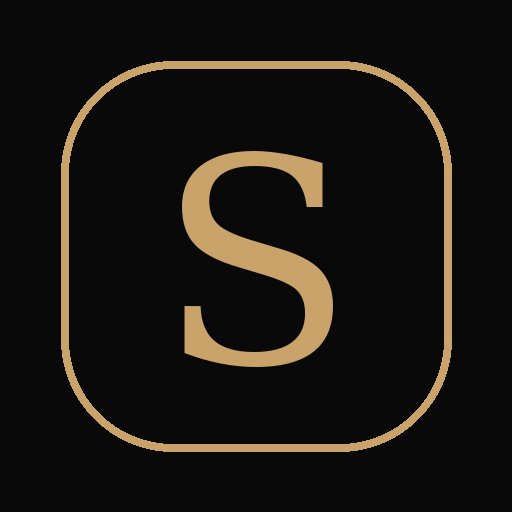
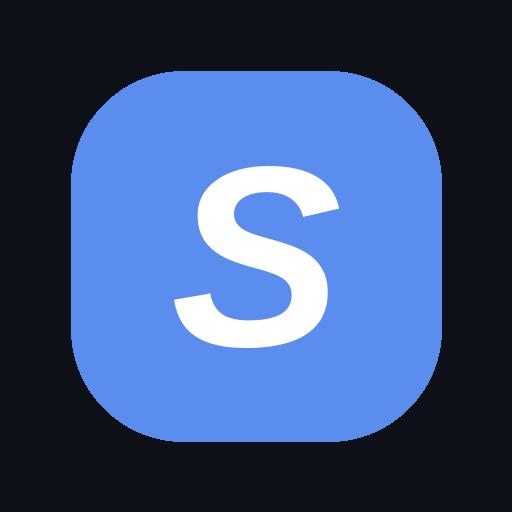
Nueva estética: más limpia y moderna (azul, tipografía sans, categorías en píldoras, baldosas de color)
Claude-Session: https://claude.ai/code/session_01BUZpBNmMGrT1X5f74E6yXL

diff --git a/index.html b/index.html
@@ -3,7 +3,7 @@
 <head>
 <meta charset="utf-8">
 <meta name="viewport" content="width=device-width,initial-scale=1,maximum-scale=1,user-scalable=no,viewport-fit=cover">
-<meta name="theme-color" content="#09090a">
+<meta name="theme-color" content="#0d1017">
 <meta name="apple-mobile-web-app-capable" content="yes">
 <meta name="mobile-web-app-capable" content="yes">
 <link rel="manifest" href="manifest.json">
@@ -11,11 +11,11 @@
 <meta name="apple-mobile-web-app-title" content="Solera">
 <title>Solera TPV</title>
 <style>
-:root{--bg:#09090a;--s1:#121110;--s2:#181716;--s3:#211f1d;--line:#262321;--line2:#37332f;--tx:#f3eee6;--mut:#8f8981;--mut2:#615c56;
---gold:#c9a36a;--ok:#3fbf8b;--okd:#03150e;--amb:#f2a33a;--red:#ff5c5c;--serif:"Iowan Old Style","Palatino Linotype",Palatino,"Book Antiqua",Georgia,"Noto Serif",serif;
+:root{--bg:#0d1017;--s1:#151a24;--s2:#1b2230;--s3:#242d3f;--line:#222a3a;--line2:#303b52;--tx:#f6f8fc;--mut:#97a3b8;--mut2:#5d6a82;
+--gold:#5b8def;--ok:#2fd18b;--okd:#032014;--amb:#ffb43a;--red:#ff6b6b;--serif:"Inter","SF Pro Display",system-ui,-apple-system,"Segoe UI",Roboto,Helvetica,Arial,sans-serif;
 --ease:cubic-bezier(.2,.8,.2,1)}
 *{box-sizing:border-box;-webkit-tap-highlight-color:transparent}
-html{background-color:var(--bg);background-image:radial-gradient(900px 420px at 50% -8%,rgba(201,163,106,.09),transparent 70%);background-attachment:fixed}
+html{background-color:var(--bg)}
 html,body{margin:0;height:100%;color:var(--tx);font-family:"SF Pro Display","Inter",system-ui,-apple-system,"Segoe UI",Roboto,Helvetica,Arial,sans-serif;overscroll-behavior:none;-webkit-font-smoothing:antialiased;font-feature-settings:"tnum" 1,"cv11" 1}
 body{background:transparent;-webkit-user-select:none;user-select:none;-webkit-touch-callout:none}
 button{font:inherit;color:inherit;border:0;background:none;touch-action:manipulation;cursor:pointer;padding:0}
@@ -24,7 +24,7 @@ svg{display:block}
 h2{margin:0 0 12px;font-size:21px;font-weight:650;letter-spacing:-.01em}
 h3{margin:20px 0 8px;font-size:11px;color:var(--mut);letter-spacing:.16em;font-weight:600}
 .hint{color:var(--mut);font-size:14px;line-height:1.5;margin:6px 0 14px}
-.btn{min-height:50px;padding:0 18px;border-radius:13px;background:var(--s3);font-weight:600;font-size:15px;border:1px solid var(--line2);transition:transform .12s var(--ease),background .15s}
+.btn{min-height:52px;padding:0 20px;border-radius:16px;background:var(--s3);font-weight:600;font-size:15px;border:1px solid var(--line2);transition:transform .12s var(--ease),background .15s}
 .btn:active{transform:scale(.97)}
 .btn.pri{background:var(--ok);color:var(--okd);border-color:var(--ok)}
 .btn.red{background:rgba(255,92,92,.1);color:#ff8f8f;border-color:rgba(255,92,92,.35)}
@@ -33,21 +33,21 @@ h3{margin:20px 0 8px;font-size:11px;color:var(--mut);letter-spacing:.16em;font-w
 
 /* marca */
 .brand{display:flex;align-items:baseline;gap:12px}
-.brand b{font-family:var(--serif);font-weight:500;letter-spacing:.01em;font-size:25px;color:var(--tx);line-height:1}
+.brand b{font-family:var(--serif);font-weight:800;letter-spacing:-.02em;font-size:25px;color:var(--tx);line-height:1}
 .brand small{font-size:10px;letter-spacing:.24em;font-weight:600;color:var(--gold)}
 
 /* selector de modo */
 .picker{min-height:100%;display:flex;flex-direction:column;justify-content:center;gap:14px;padding:28px;max-width:560px;margin:0 auto}
-.picker .logo{font-family:var(--serif);font-size:64px;font-weight:500;letter-spacing:-.01em;line-height:1;margin:0 0 10px}
+.picker .logo{font-family:var(--serif);font-size:60px;font-weight:800;letter-spacing:-.04em;line-height:1;margin:0 0 10px}
 .picker .by{font-size:11.5px;letter-spacing:.26em;color:var(--gold);font-weight:600;padding-bottom:22px;margin-bottom:22px;border-bottom:1px solid var(--line2)}
-.pbtn{display:flex;align-items:center;gap:18px;padding:22px 22px;border-radius:20px;background:var(--s1);border:1px solid var(--line2);text-align:left;transition:transform .15s var(--ease),border-color .2s}
+.pbtn{display:flex;align-items:center;gap:18px;padding:22px 22px;border-radius:24px;background:var(--s1);border:1px solid var(--line2);text-align:left;transition:transform .15s var(--ease),border-color .2s}
 .pbtn:active{transform:scale(.98);border-color:var(--gold)}
 .pbtn .pi{width:56px;height:56px;border-radius:16px;background:var(--s3);display:grid;place-items:center;color:var(--gold);flex:0 0 auto}
 .pbtn strong{display:block;font-size:20px;letter-spacing:.14em;font-weight:650}
 .pbtn small{display:block;color:var(--mut);font-size:14px;margin-top:3px;font-weight:400}
 
 /* barra */
-.top{position:sticky;top:0;z-index:5;background:rgba(9,9,10,.92);backdrop-filter:blur(14px);-webkit-backdrop-filter:blur(14px);padding:calc(env(safe-area-inset-top) + 8px) 12px 6px;border-bottom:1px solid var(--line)}
+.top{position:sticky;top:0;z-index:5;background:rgba(13,16,23,.92);backdrop-filter:blur(14px);-webkit-backdrop-filter:blur(14px);padding:calc(env(safe-area-inset-top) + 8px) 12px 6px;border-bottom:1px solid var(--line)}
 .row1{display:flex;align-items:center;gap:10px}
 .pill{margin-left:auto;display:flex;align-items:center;gap:8px;padding:9px 14px;border-radius:99px;font-weight:600;font-size:12.5px;letter-spacing:.03em;background:var(--s2);border:1px solid var(--line2);white-space:nowrap}
 .pill::before{content:"";width:8px;height:8px;border-radius:50%;background:currentColor;box-shadow:0 0 10px currentColor}
@@ -59,21 +59,21 @@ h3{margin:20px 0 8px;font-size:11px;color:var(--mut);letter-spacing:.16em;font-w
 .waiters::-webkit-scrollbar{display:none}
 .waiters .lbl{flex:0 0 auto;align-self:center;font-size:9.5px;color:var(--mut);font-weight:600;letter-spacing:.16em;line-height:1.2;text-align:center;padding-right:2px}
 .wchip{flex:0 0 auto;min-width:48px;height:48px;border-radius:13px;background:var(--s2);border:1px solid var(--line);font-weight:600;font-size:19px;padding:0 12px;color:var(--mut);transition:background .15s,color .15s}
-.wchip.sel{background:var(--gold);color:#1a1405;border-color:var(--gold)}
+.wchip.sel{background:var(--gold);color:#fff;border-color:var(--gold)}
 .wchip.kb{color:var(--tx);display:grid;place-items:center}
 .shake{animation:shake .4s}
-.cats{display:flex;gap:6px;margin:6px 12px 0;border-bottom:1px solid var(--line);overflow-x:auto;scrollbar-width:none}
+.cats{display:flex;gap:8px;margin:0;padding:10px 12px 4px;overflow-x:auto;scrollbar-width:none}
 .cats::-webkit-scrollbar{display:none}
-.cat{flex:1 0 auto;height:52px;padding:0 20px;font-weight:600;font-size:15.5px;color:var(--mut);letter-spacing:.02em;border-bottom:2px solid transparent;margin-bottom:-1px;transition:color .15s,border-color .15s}
-.cat.sel{color:var(--tx);border-bottom-color:var(--gold)}
+.cat{flex:1 0 auto;height:48px;padding:0 22px;border-radius:99px;background:var(--s2);font-weight:650;font-size:16px;color:var(--mut);transition:background .15s,color .15s}
+.cat.sel{background:var(--gold);color:#fff}
 .grid{display:grid;grid-template-columns:repeat(2,1fr);gap:10px;padding:8px 12px calc(180px + env(safe-area-inset-bottom))}
 @media(min-width:720px){.grid{grid-template-columns:repeat(3,1fr)}}
-.prod{position:relative;min-height:112px;border-radius:18px;background:linear-gradient(180deg,#1b1a19,#131211);border:1px solid var(--line);padding:16px 14px 14px;display:flex;flex-direction:column;justify-content:space-between;align-items:flex-start;text-align:left;overflow:hidden;transition:transform .1s var(--ease),border-color .15s,background .15s}
-.prod::before{content:"";position:absolute;left:14px;top:0;width:26px;height:3px;border-radius:0 0 3px 3px;background:var(--c)}
-.prod:active{transform:scale(.965);background:#242220}
-.prod .pn{font-size:19.5px;font-weight:580;line-height:1.15;letter-spacing:-.01em;padding-right:58px}
-.prod .pp{font-size:15px;color:var(--mut);font-weight:500}
-.prod.has{border-color:rgba(63,191,139,.55);background:linear-gradient(180deg,#12211a,#0d1813)}
+.prod{position:relative;min-height:118px;border-radius:22px;background:var(--s2);background:color-mix(in srgb,var(--c) 20%,var(--s2));border:1.5px solid color-mix(in srgb,var(--c) 28%,transparent);padding:16px 15px 14px;display:flex;flex-direction:column;justify-content:space-between;align-items:flex-start;text-align:left;overflow:hidden;transition:transform .1s var(--ease),border-color .15s}
+.prod:active{transform:scale(.96)}
+.has .pn{padding-right:54px!important;font-size:18px!important}
+.prod .pn{overflow-wrap:anywhere;font-size:20px;font-weight:700;line-height:1.15;letter-spacing:-.01em;padding-right:58px}
+.prod .pp{font-size:16px;color:var(--tx);opacity:.7;font-weight:600}
+.prod.has{border-color:var(--ok);background:#17352b;background:color-mix(in srgb,var(--ok) 20%,var(--s2))}
 .prod.flash{animation:flash .28s}
 .badge{position:absolute;top:12px;right:12px;min-width:46px;height:34px;padding:0 12px;border-radius:99px;background:var(--ok);color:var(--okd);font-size:19px;font-weight:700;display:none;align-items:center;justify-content:center}
 .has .badge{display:flex}
@@ -81,22 +81,22 @@ h3{margin:20px 0 8px;font-size:11px;color:var(--mut);letter-spacing:.16em;font-w
 .minus{position:absolute;right:8px;bottom:8px;width:44px;height:40px;border-radius:12px;background:rgba(255,255,255,.07);border:1px solid var(--line2);color:var(--tx);font-size:24px;font-weight:500;display:none;align-items:center;justify-content:center}
 .has .minus{display:flex}
 .fly{position:absolute;left:50%;top:42%;font-size:30px;font-weight:700;color:var(--ok);pointer-events:none;animation:fly .55s forwards}
-.dock{position:fixed;left:0;right:0;bottom:0;padding:30px 12px calc(12px + env(safe-area-inset-bottom));background:linear-gradient(rgba(9,9,10,0),var(--bg) 38%);z-index:6}
+.dock{position:fixed;left:0;right:0;bottom:0;padding:30px 12px calc(12px + env(safe-area-inset-bottom));background:linear-gradient(rgba(13,16,23,0),var(--bg) 38%);z-index:6}
 .sum{display:flex;gap:8px;align-items:center;margin-bottom:8px;min-height:34px}
 .sum .txt{flex:1;white-space:nowrap;overflow:hidden;text-overflow:ellipsis;font-size:14px;color:var(--mut);font-weight:500}
 .sum button{padding:8px 14px;border-radius:10px;background:var(--s2);border:1px solid var(--line2);font-weight:600;font-size:11.5px;letter-spacing:.12em;color:#ff9b9b}
-.send{width:100%;height:74px;border-radius:19px;background:linear-gradient(180deg,#52d3a3,#2da676);color:var(--okd);font-size:20px;font-weight:700;letter-spacing:.015em;box-shadow:0 14px 34px -10px rgba(63,191,139,.55),inset 0 1px 0 rgba(255,255,255,.35);transition:transform .1s var(--ease)}
+.send{width:100%;height:74px;border-radius:22px;background:var(--ok);color:var(--okd);font-size:20px;font-weight:800;letter-spacing:.01em;box-shadow:0 10px 28px -10px rgba(47,209,139,.6);transition:transform .1s var(--ease)}
 .send:active{transform:scale(.985)}
 .send[disabled]{background:var(--s2);color:var(--mut2);box-shadow:none;font-size:15px;font-weight:500;border:1px solid var(--line)}
 
 /* cocina */
-.kh{display:flex;align-items:center;gap:14px;padding:calc(env(safe-area-inset-top) + 12px) 20px 12px;background:rgba(9,9,10,.92);backdrop-filter:blur(14px);-webkit-backdrop-filter:blur(14px);border-bottom:1px solid var(--line);position:sticky;top:0;z-index:5;flex-wrap:wrap}
+.kh{display:flex;align-items:center;gap:14px;padding:calc(env(safe-area-inset-top) + 12px) 20px 12px;background:rgba(13,16,23,.92);backdrop-filter:blur(14px);-webkit-backdrop-filter:blur(14px);border-bottom:1px solid var(--line);position:sticky;top:0;z-index:5;flex-wrap:wrap}
 .kh .brand b{font-size:30px}.kh .brand small{font-size:12px}
 .kh .cnt{font-size:15px;font-weight:600;letter-spacing:.06em;color:var(--tx);background:var(--s2);border:1px solid var(--line2);border-radius:99px;padding:10px 18px}
 .kh .sp{flex:1}
 .kh .ico{width:52px;height:52px}
 .kgrid{display:grid;grid-template-columns:repeat(auto-fill,minmax(340px,1fr));gap:16px;padding:18px 20px;align-items:start}
-.card{position:relative;background:var(--s1);border:1px solid var(--line2);border-radius:22px;overflow:hidden;display:flex;flex-direction:column;animation:cin .45s var(--ease);transition:opacity .28s,transform .28s}
+.card{position:relative;background:var(--s1);border:1px solid var(--line2);border-radius:24px;overflow:hidden;display:flex;flex-direction:column;animation:cin .45s var(--ease);transition:opacity .28s,transform .28s}
 .card::before{content:"";height:6px;background:var(--line2);transition:background .3s}
 .card.out{opacity:0;transform:scale(.92) translateY(-8px);pointer-events:none}
 .card.warn{border-color:rgba(242,163,58,.6)}.card.warn::before{background:var(--amb)}
@@ -110,7 +110,7 @@ h3{margin:20px 0 8px;font-size:11px;color:var(--mut);letter-spacing:.16em;font-w
 .warn .tm{color:var(--amb)}.crit .tm{color:var(--red)}
 .li{list-style:none;margin:0;padding:16px 18px 18px;font-size:30px;font-weight:650;line-height:1.15;display:flex;flex-direction:column;gap:10px;letter-spacing:-.01em}
 .li b{color:var(--gold);display:inline-block;min-width:2.2ch;font-weight:700}
-.done{height:88px;background:var(--ok);color:var(--okd);font-size:21px;font-weight:700;letter-spacing:.12em;transition:background .15s}
+.done{height:88px;background:var(--ok);color:var(--okd);font-size:21px;font-weight:800;letter-spacing:.08em;transition:background .15s}
 .done:active{background:#2da676}
 .empty{grid-column:1/-1;text-align:center;color:var(--mut);padding:90px 10px;font-size:22px;font-weight:500;letter-spacing:.02em}
 .empty b{display:grid;place-items:center;width:84px;height:84px;margin:0 auto 18px;border-radius:50%;border:1px solid var(--line2);color:var(--ok)}
@@ -118,7 +118,7 @@ h3{margin:20px 0 8px;font-size:11px;color:var(--mut);letter-spacing:.16em;font-w
 
 /* modales / avisos */
 .ovl{position:fixed;inset:0;background:rgba(0,0,0,.72);backdrop-filter:blur(6px);-webkit-backdrop-filter:blur(6px);z-index:50;display:flex;align-items:flex-end;justify-content:center}
-.sheet{position:relative;width:100%;max-width:560px;max-height:92%;overflow:auto;background:var(--s1);border:1px solid var(--line2);border-radius:24px 24px 0 0;padding:22px 18px calc(22px + env(safe-area-inset-bottom));animation:up .28s var(--ease)}
+.sheet{position:relative;width:100%;max-width:560px;max-height:92%;overflow:auto;background:var(--s1);border:1px solid var(--line2);border-radius:28px 28px 0 0;padding:22px 18px calc(22px + env(safe-area-inset-bottom));animation:up .28s var(--ease)}
 .sheet.wide{max-width:680px}
 @media(min-width:720px){.ovl{align-items:center}.sheet{border-radius:24px}}
 .sheet>.x{position:absolute;right:12px;top:12px;width:42px;height:42px;border-radius:12px;background:var(--s2);border:1px solid var(--line);display:grid;place-items:center}
@@ -138,9 +138,9 @@ label{display:block;font-size:10.5px;font-weight:600;letter-spacing:.14em;color:
 .pad .okk{background:var(--ok);color:var(--okd);border-color:var(--ok)}.pad .alt{color:#ff9b9b}
 .payb{display:flex;align-items:center;gap:14px;width:100%;min-height:62px;padding:0 18px;border-radius:15px;background:var(--s2);border:1px solid var(--line2);margin-bottom:9px;font-size:17px;font-weight:600;text-align:left}
 .payb:active{border-color:var(--gold)}.payb i{font-style:normal;color:var(--gold);font-size:22px;width:26px;text-align:center}
-.paytot{text-align:center;font-family:var(--serif);font-size:38px;margin:2px 0 16px}
-.chg{text-align:center;font-size:15px;color:var(--mut);margin:12px 0;min-height:44px}.chg b{display:block;font-size:34px;color:var(--ok);font-family:var(--serif)}
-.qa{display:grid;grid-template-columns:repeat(5,1fr);gap:6px;margin:8px 0}.qa button{height:48px;border-radius:12px;background:var(--s2);border:1px solid var(--line2);font-weight:650}.qa button.sel{background:var(--gold);color:#1a1405;border-color:var(--gold)}
+.paytot{text-align:center;font-weight:800;font-size:44px;letter-spacing:-.03em;margin:2px 0 16px}
+.chg{text-align:center;font-size:15px;color:var(--mut);margin:12px 0;min-height:44px}.chg b{display:block;font-size:36px;font-weight:800;color:var(--ok)}
+.qa{display:grid;grid-template-columns:repeat(5,1fr);gap:6px;margin:8px 0}.qa button{height:48px;border-radius:12px;background:var(--s2);border:1px solid var(--line2);font-weight:650}.qa button.sel{background:var(--gold);color:#fff;border-color:var(--gold)}
 .oc{padding:14px 0;border-bottom:1px solid var(--line)}.oc.fin{opacity:.55}
 .och{display:flex;align-items:center;gap:10px;margin-bottom:8px}.och .n{font-weight:700;font-size:20px}.och .tt{margin-left:auto;font-weight:650}
 .gl{display:flex;align-items:center;gap:10px;padding:7px 0}.gl .gn{flex:1;font-size:15.5px}.gl.all .gn{text-decoration:line-through;color:var(--mut)}
@@ -171,11 +171,11 @@ details{margin-top:14px}summary{color:var(--mut);font-size:13px;padding:8px 0;cu
 .tabs .tab{flex:1;height:44px;border-radius:10px;font-weight:600;color:var(--mut)}
 .tabs .tab.sel{background:var(--s3);color:var(--tx);box-shadow:inset 0 -2px 0 var(--gold)}
 .seg{display:flex;gap:6px}.seg button{flex:1;height:50px;border-radius:13px;background:var(--s1);border:1px solid var(--line2);font-weight:600;color:var(--mut)}
-.seg button.sel{background:var(--gold);color:#1a1405;border-color:var(--gold)}
+.seg button.sel{background:var(--gold);color:#fff;border-color:var(--gold)}
 .who{color:var(--mut);font-size:13px;margin:0 0 12px}
 @keyframes blink{50%{opacity:.35}}
 @keyframes bump{40%{transform:scale(1.3)}}
-@keyframes flash{0%{background:#1d3a2c}100%{}}
+@keyframes flash{0%{filter:brightness(1.6)}100%{}}
 @keyframes fly{to{transform:translateY(-56px);opacity:0}}
 @keyframes cin{from{transform:translateY(-18px) scale(.96);opacity:0}}
 @keyframes pulse{50%{box-shadow:0 0 0 3px rgba(255,92,92,.45)}}

diff --git a/admin.html b/admin.html
@@ -3,19 +3,19 @@
 <head>
 <meta charset="utf-8">
 <meta name="viewport" content="width=device-width,initial-scale=1,viewport-fit=cover">
-<meta name="theme-color" content="#09090a">
+<meta name="theme-color" content="#0d1017">
 <meta name="robots" content="noindex,nofollow">
 <title>Solera TPV · Administración</title>
 <style>
-:root{--bg:#09090a;--s1:#121110;--s2:#181716;--s3:#211f1d;--line:#262321;--line2:#37332f;--tx:#f3eee6;--mut:#8f8981;--gold:#c9a36a;--ok:#3fbf8b;--okd:#03150e;--amb:#f2a33a;--red:#ff5c5c;--serif:"Iowan Old Style","Palatino Linotype",Palatino,"Book Antiqua",Georgia,"Noto Serif",serif}
+:root{--bg:#0d1017;--s1:#151a24;--s2:#1b2230;--s3:#242d3f;--line:#222a3a;--line2:#303b52;--tx:#f6f8fc;--mut:#97a3b8;--gold:#5b8def;--ok:#2fd18b;--okd:#032014;--amb:#ffb43a;--red:#ff6b6b;--serif:"Inter","SF Pro Display",system-ui,-apple-system,"Segoe UI",Roboto,Helvetica,Arial,sans-serif}
 *{box-sizing:border-box;-webkit-tap-highlight-color:transparent}
-html{background-color:var(--bg);background-image:radial-gradient(900px 420px at 50% -8%,rgba(201,163,106,.09),transparent 70%);background-attachment:fixed}
+html{background-color:var(--bg)}
 body{margin:0;min-height:100vh;color:var(--tx);font-family:"SF Pro Display","Inter",system-ui,-apple-system,"Segoe UI",Roboto,Helvetica,Arial,sans-serif;-webkit-font-smoothing:antialiased}
 button{font:inherit;color:inherit;border:0;background:none;cursor:pointer;padding:0}
 input,select{font:inherit;color:var(--tx)}
 h2{margin:0 0 4px;font-size:22px;font-weight:650;letter-spacing:-.01em}
 .hint{color:var(--mut);font-size:14px;line-height:1.5;margin:4px 0 16px}
-.brand{font-family:var(--serif);font-size:28px;line-height:1}
+.brand{font-family:var(--serif);font-weight:800;letter-spacing:-.02em;font-size:28px;line-height:1}
 .brand small{font-family:inherit;font-size:10px;letter-spacing:.24em;font-weight:600;color:var(--gold);margin-left:10px;font-family:"SF Pro Display","Inter",system-ui,sans-serif}
 .wrap{max-width:960px;margin:0 auto;padding:0 16px 80px}
 .top{display:flex;align-items:center;gap:12px;padding:18px 0;border-bottom:1px solid var(--line);flex-wrap:wrap}
@@ -46,7 +46,7 @@ td{padding:10px 6px;border-top:1px solid var(--line);font-size:14px}
 td select{height:38px;width:auto}
 .tag{font-size:12px;color:var(--mut)}
 .login{max-width:400px;margin:0 auto;padding:12vh 20px 40px}
-.login .brand{font-size:56px;margin-bottom:6px}
+.login .brand{font-size:52px;margin-bottom:6px}
 .login .by{font-size:11.5px;letter-spacing:.26em;color:var(--gold);font-weight:600;padding-bottom:22px;margin-bottom:22px;border-bottom:1px solid var(--line2)}
 label{display:block;font-size:10.5px;font-weight:600;letter-spacing:.14em;color:var(--mut);margin:14px 0 5px}
 .err{color:var(--red);font-size:14px;min-height:20px;margin-top:10px}

diff --git a/sw.js b/sw.js
@@ -1,5 +1,5 @@
 // Sube el número cuando cambies index.html para forzar la actualización en los móviles
-const V='zmb-v10',FILES=['./','manifest.json','icon-192.png','icon-512.png','apple-touch-icon.png'];
+const V='zmb-v11',FILES=['./','manifest.json','icon-192.png','icon-512.png','apple-touch-icon.png'];
 // Safari/Chrome rechazan servir desde un service worker una respuesta que venga de una redirección
 // (p. ej. Cloudflare redirige /index.html -> /). Se devuelve siempre una copia "limpia".
 const clean=async r=>{

diff --git a/README.md b/README.md
@@ -15,7 +15,7 @@ Web app de un solo archivo para comandas de un evento: **barra** (móviles) y **
 Si no hay cámara, hay un código de texto alternativo. Los pedidos hechos sin conexión quedan en cola y se envían solos al reconectar.
 
 ## Actualizar
-Al cambiar `index.html`, subir el número de versión `V` en `sw.js` (`zmb-v10` → `zmb-v11`).
+Al cambiar `index.html`, subir el número de versión `V` en `sw.js` (`zmb-v11` → `zmb-v12`).
 
 ## Cuentas y panel de administración
 
